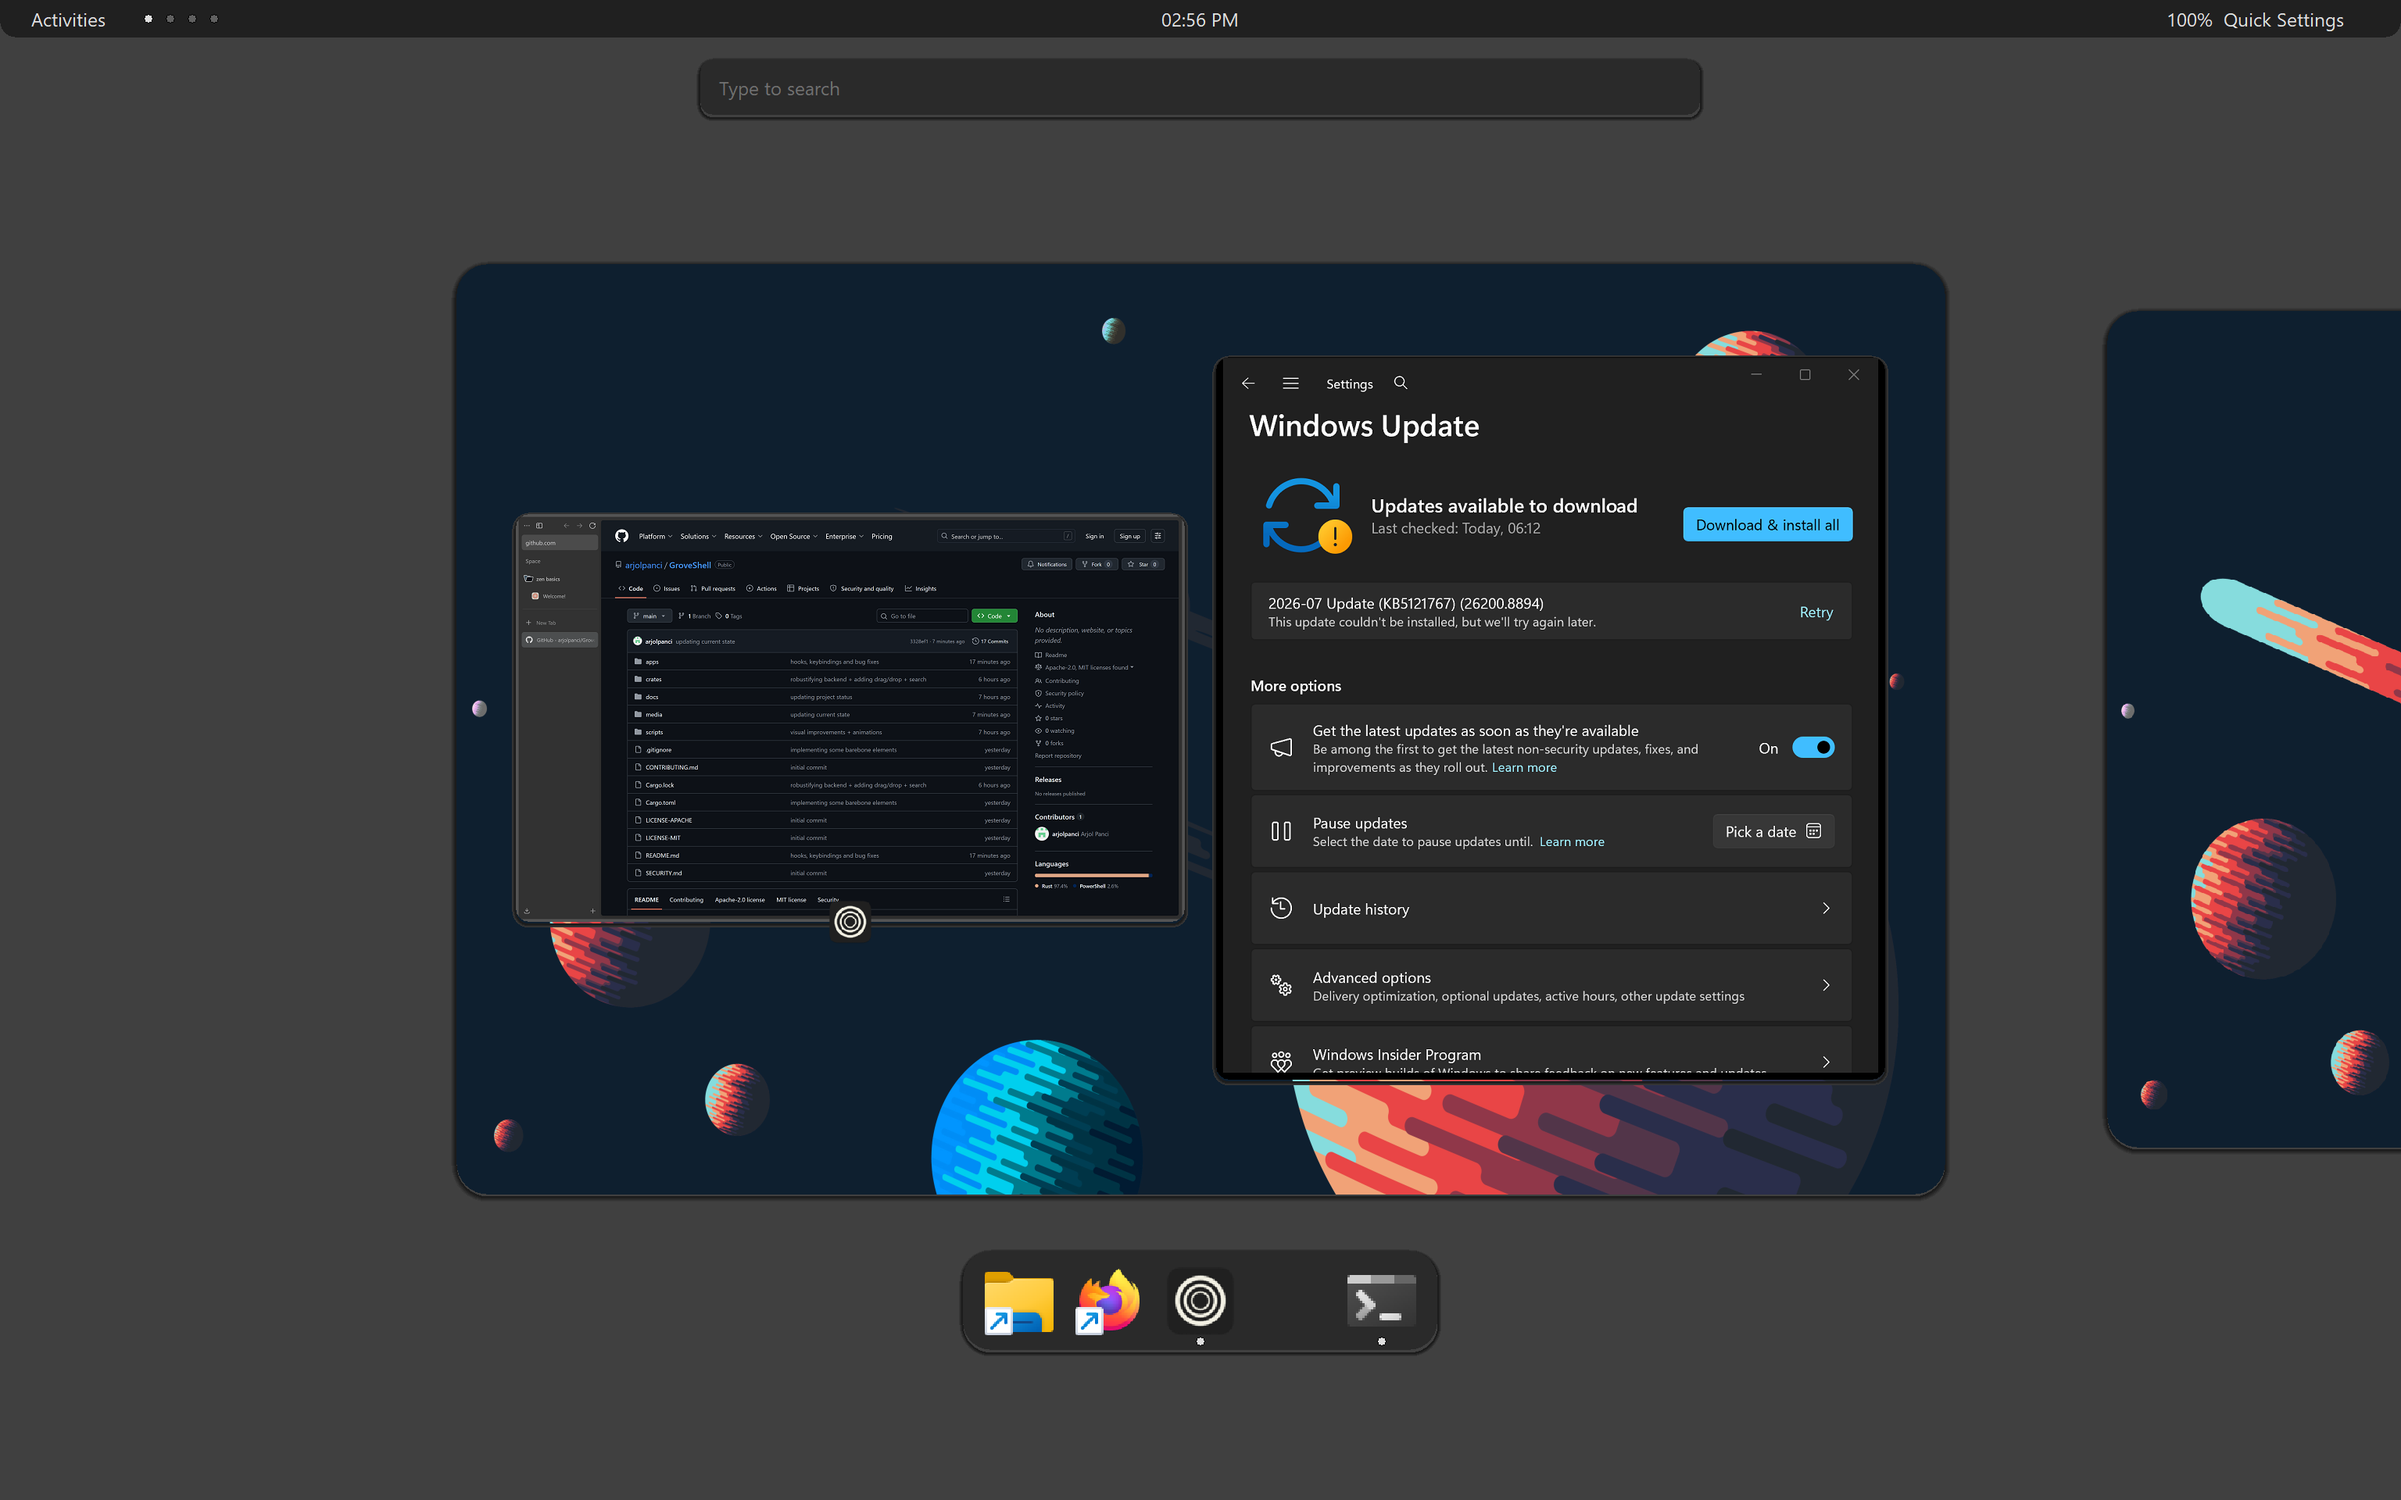
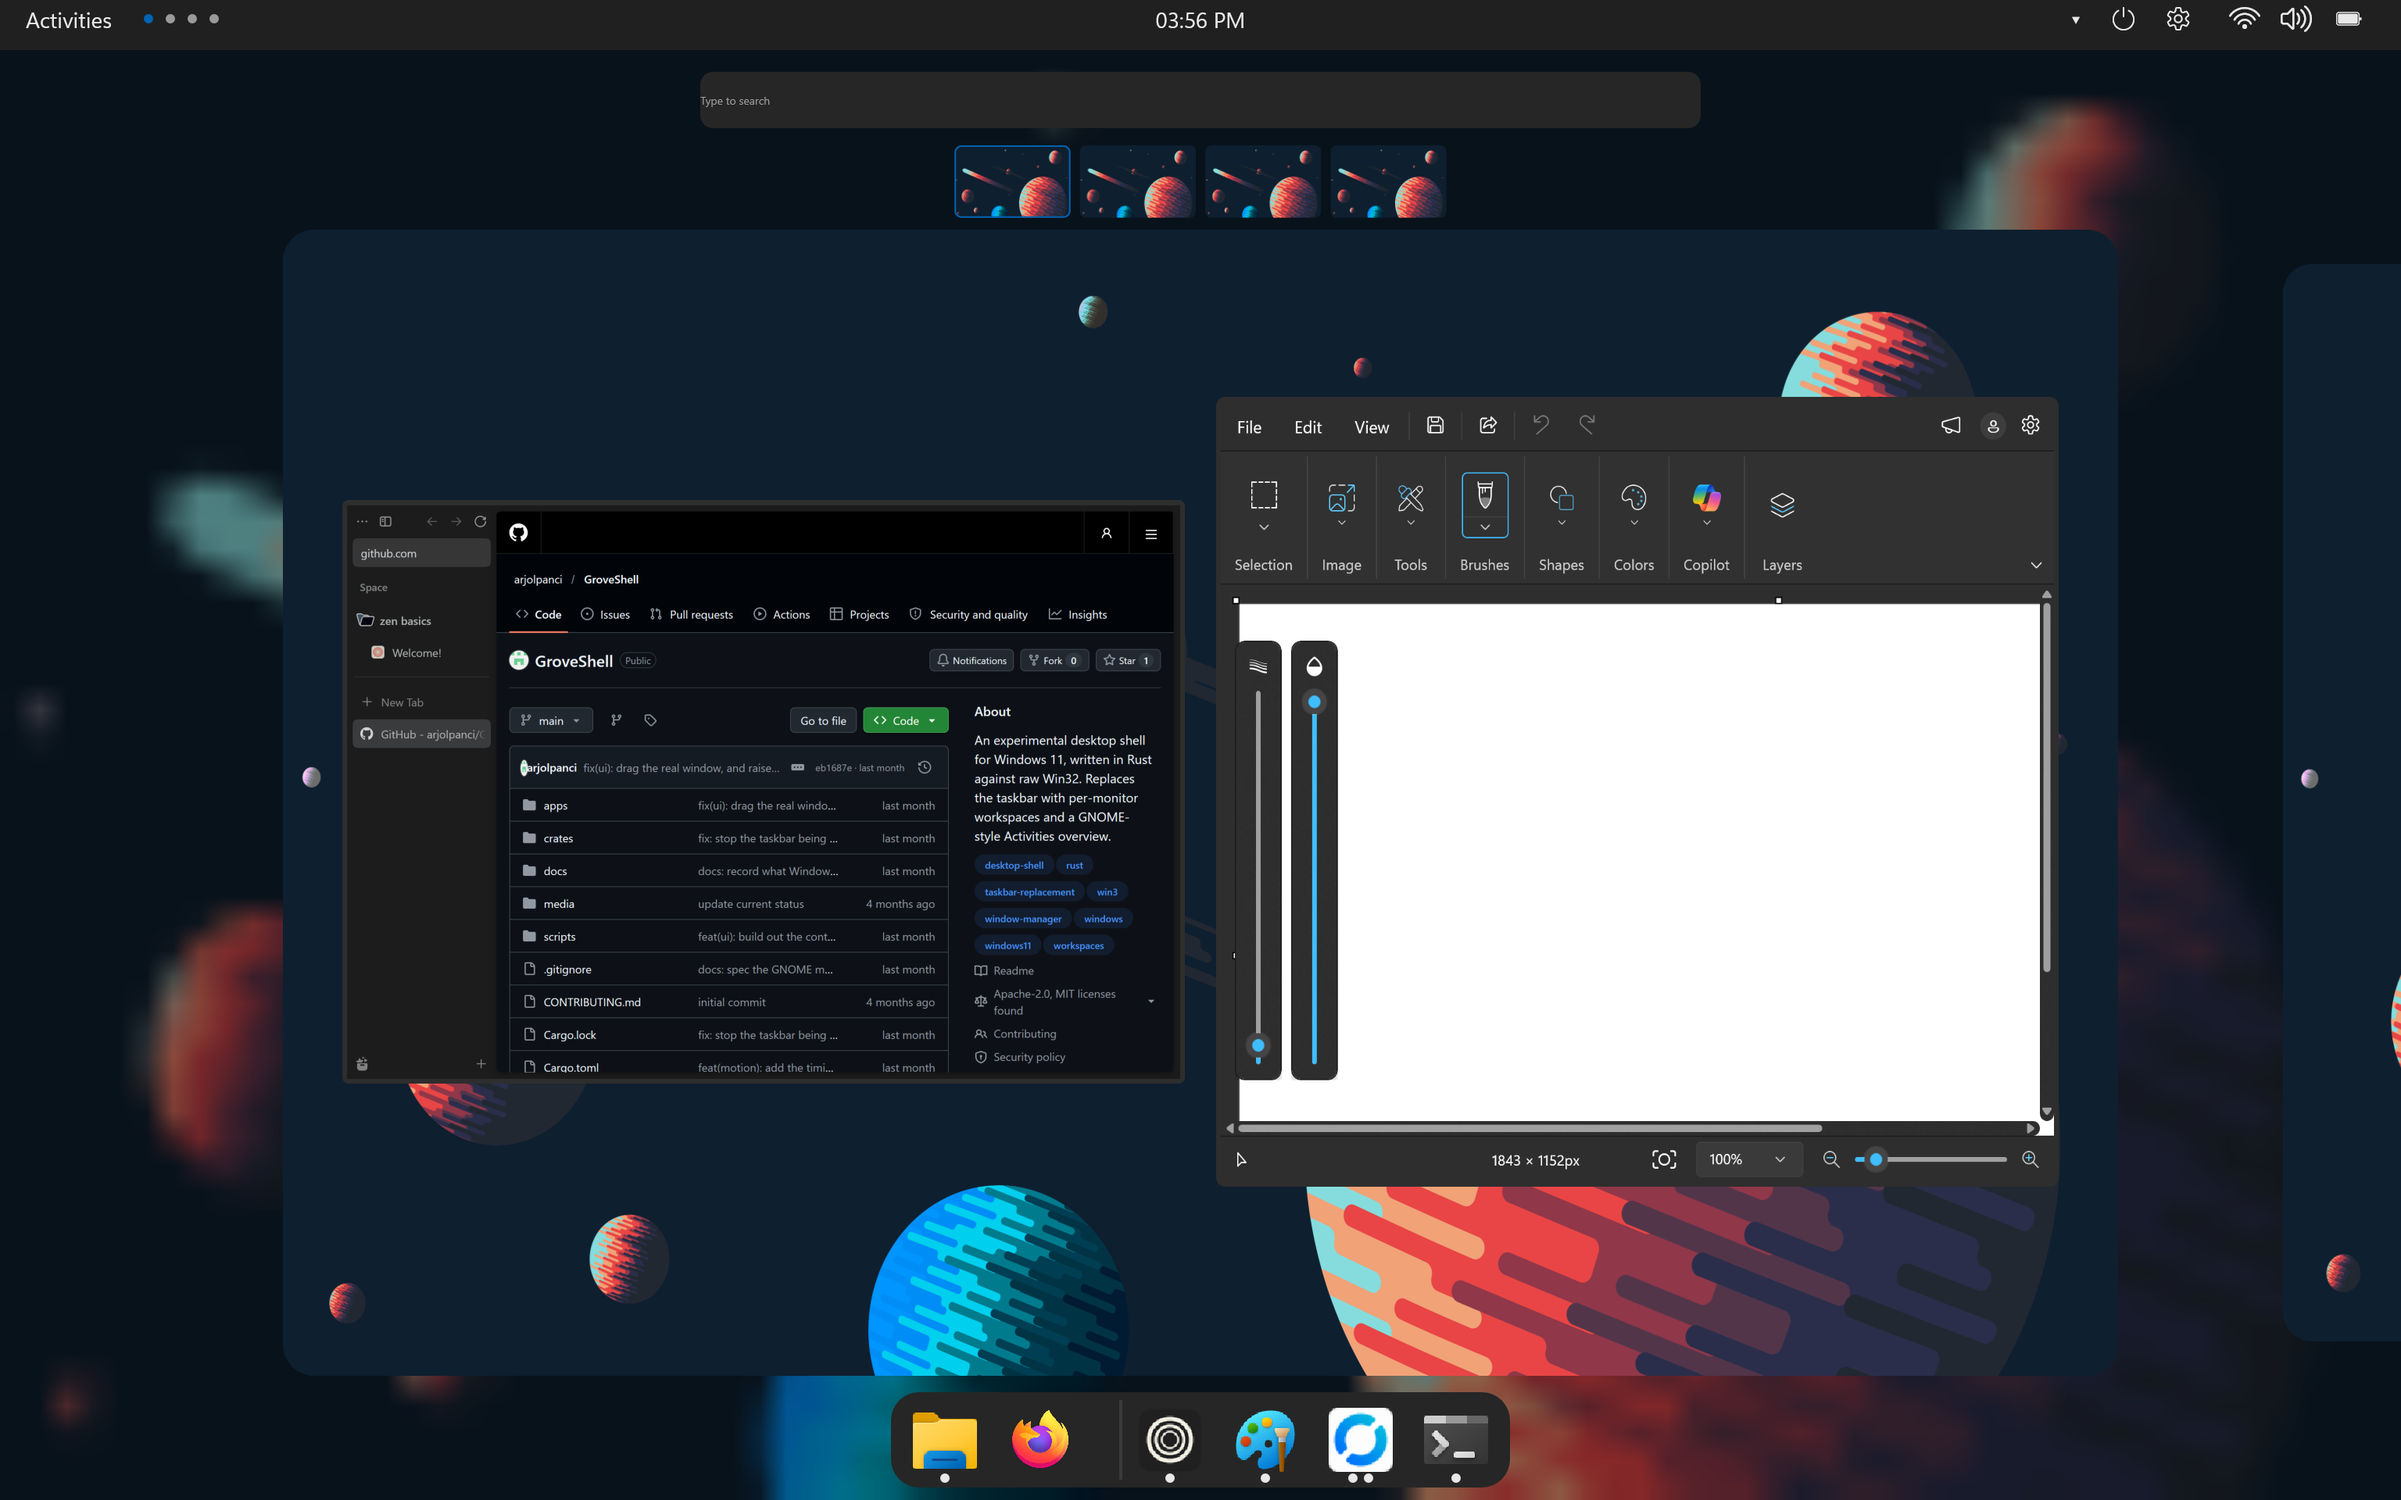
docs: rewrite the README and retake the screenshots
Replace the slogan headings with plain ones, split the top bar section
into control center and notification area, and add a Motion section.
List three-finger swipes as
unsupported and fix the icon licence path, which moved to ui-kit.

Retake the overview and workspace-drag screenshots, and add ones for
the control center and the calendar flyout.

diff --git a/README.md b/README.md
@@ -4,67 +4,104 @@
 
 # GroveShell
 
-A workspace-focused desktop shell for Windows 11. Organize your apps across
-independent workspaces, find anything from Activities, and keep everyday
-controls within reach in a compact top bar.
+GroveShell is an experimental desktop shell for Windows 11. It hides the
+taskbar and puts a top bar, per-monitor workspaces, and a GNOME-style
+Activities overview in its place.
 
-GroveShell is written in Rust using Win32. It runs alongside Explorer and
-restores the Windows taskbar and your windows when you quit. It is experimental
-software; keep the recovery instructions below handy when trying a new build.
+It is written in Rust against Win32 and runs alongside Explorer. Quitting
+it restores the Windows taskbar and your windows. Because it is
+experimental, keep the [recovery instructions](#recovery-and-diagnostics)
+handy when you try a new build.
 
 ![The Activities overview](media/activities-overview.png)
 
-## Your desktop, organized
+## Activities and workspaces
 
-Open **Activities** to see your workspaces, live window previews, app search,
-and a dock with your pinned and running apps. Click a preview to focus it,
-search by typing, or drag a window onto another workspace card.
+Tap the Windows key to open Activities. The overview shows the current
+workspace with a live preview of each window, a strip of workspace
+thumbnails above it, a search field, and a dock with your pinned and
+running apps. Click a preview to focus that window, type to search, or drag
+a preview onto another workspace.
 
-Each monitor has its own workspace set. Switching on one display leaves the
-others alone. An empty workspace is always waiting at the end, and connecting
-or disconnecting a monitor moves windows into a usable workspace automatically.
+![Dragging a window to another workspace](media/workspace-drag.png)
 
-![Dragging between workspaces](media/workspace-drag.png)
+Each monitor has its own set of workspaces, so switching on one display
+leaves the others alone. The last workspace in the set is always empty.
+When you connect or disconnect a monitor, GroveShell moves the affected
+windows into a workspace you can reach.
 
-## A top bar for everyday tasks
+## Motion
 
-Every monitor gets Activities and workspace indicators. The primary display
-also has a clock and calendar, system status, settings, a power menu, and
-access to the Windows notification area.
+Opening and closing Activities is one continuous motion, not a fade on a
+fixed timer. Each window travels from where it sits on screen into its slot
+in the grid, the dock slides up from below, and the thumbnail strip drops in
+from above. You can stop the motion halfway and reverse it.
 
-The **control center** provides Wi-Fi, Bluetooth, appearance, radio controls,
-mute, and a draggable volume slider. Split-button arrows open additional
-options: an in-panel Wi-Fi network list and saved connections, Bluetooth pairing,
-themes, Windows airplane mode, audio devices, and the volume mixer. Network
-selection for saved profiles happens inside GroveShell, with signal strength,
-disconnect, refresh, and scrolling. New-network setup and password entry use
-Windows' own connection UI; GroveShell does not collect or store Wi-Fi passwords.
+A two-finger touchpad scroll or the mouse wheel drives the overview
+transition and the workspace carousel, and a fling lands where its momentum
+carries it. Every animated surface is computed from one progress value per
+monitor, which is why the pieces stay in step. The
+[motion design notes](docs/design/2026-10-13-gnome-motion-port-design.md)
+explain the approach.
 
-The panel uses Segoe UI, rounded surfaces, the Windows accent color, hover
-and keyboard focus feedback, and fade transitions that respect reduced
-motion. Radio operations run in the background so they do not block painting.
-Tab moves between controls, Enter or Space activates them, and arrow keys
-adjust the focused volume slider. Escape goes back from options or dismisses
-the panel.
+## Top bar
 
-Promoted notification icons are captured before Explorer's taskbar is hidden
-and displayed in the primary bar. Left-click invokes
-the app; right-click requests its context menu. The chevron opens Windows'
-hidden icons. Windows 11 stops rendering its XAML tray while hidden, so inline
-images retain their last captured appearance. New icons and badge changes
-require another capture while Explorer's taskbar is visible, or a shell restart.
+Every monitor gets an Activities button and workspace indicators. The
+primary display also has a clock and calendar, system status, settings, a
+power menu, and access to the Windows notification area.
 
-## Make it yours
+![The calendar flyout](media/calendar.png)
 
-Open the gear in the top bar to configure bar height, dock placement and
-behavior, overview appearance, input, and accessibility. Choose an
-overview-only dock, an always-visible dock, or an auto-hiding desktop dock.
-Appearance changes apply while GroveShell is running.
+### Control center
+
+The control center has tiles for Wi-Fi, Bluetooth, appearance, and radios,
+plus mute and a draggable volume slider. The arrow on each split button
+opens more options: a Wi-Fi network list with saved connections, Bluetooth
+pairing, themes, Windows airplane mode, audio devices, and the volume mixer.
+
+![The control center](media/control-center.png)
+
+You pick a saved Wi-Fi network inside GroveShell. The list shows signal
+strength and supports disconnect, refresh, and scrolling. Setting up a new
+network and entering its password go through Windows' own connection UI.
+GroveShell does not collect or store Wi-Fi passwords.
+
+The panel uses Segoe UI, rounded surfaces, and the Windows accent color. It
+shows hover and keyboard focus, and its fade transitions respect reduced
+motion. Radio operations run in the background so they do not block
+painting.
+
+Keyboard control:
+
+- Tab moves between controls.
+- Enter or Space activates the focused control.
+- The arrow keys adjust the volume slider when it has focus.
+- Escape goes back from an options page, or closes the panel.
+
+### Notification area
+
+GroveShell captures the promoted notification icons before it hides
+Explorer's taskbar and shows them in the primary bar. Left-click invokes the
+app, right-click requests its context menu, and the chevron opens Windows'
+hidden icons.
+
+Windows 11 stops rendering its XAML tray while the taskbar is hidden, so the
+inline images keep their last captured appearance. New icons and badge
+changes need another capture while Explorer's taskbar is visible, or a shell
+restart.
+
+## Settings
+
+The gear in the top bar opens settings for bar height, dock placement and
+behavior, overview appearance, input, and accessibility. The dock can appear
+only in the overview, stay visible on the desktop, or auto-hide on the
+desktop. Appearance changes apply while GroveShell is running.
 
 The shell follows the Windows accent color and supports high contrast,
 reduced motion, and per-monitor DPI scaling. Compatibility rules can exclude
-apps from workspace management. See the [compatibility notes](docs/compatibility.md)
-for tested configurations and remaining hardware checks.
+apps from workspace management. The
+[compatibility notes](docs/compatibility.md) list the tested configurations
+and the hardware checks still to do.
 
 ## Keyboard and mouse
 
@@ -80,8 +117,8 @@ for tested configurations and remaining hardware checks.
 
 ## Build and run
 
-Requires **Windows 11 x64** and **Rust stable** with the MSVC toolchain and
-Windows SDK / Visual Studio C++ build tools.
+You need Windows 11 x64 and Rust stable with the MSVC toolchain, plus the
+Windows SDK and the Visual Studio C++ build tools.
 
 ```powershell
 cargo build --workspace
@@ -89,9 +126,10 @@ cargo test --workspace
 .\scripts\dev-start.ps1
 ```
 
-The development launcher builds the workspace and starts the watchdog, host,
-and UI in the background, with a dashboard for status and graceful shutdown.
-Use graceful shutdown to restore the taskbar, work areas, and parked windows.
+`dev-start.ps1` builds the workspace and starts the watchdog, host, and UI
+in the background. It then shows a dashboard with process status and a
+graceful shutdown command. Use graceful shutdown to restore the taskbar,
+work areas, and parked windows.
 
 ## Recovery and diagnostics
 
@@ -101,37 +139,40 @@ If the shell becomes unresponsive, run:
 .\scripts\recover.ps1
 ```
 
-Recovery stops GroveShell processes and ensures Explorer is running without
-depending on a working GroveShell binary. Starting and gracefully quitting
-GroveShell also repairs a taskbar left hidden by a hard kill.
+The script stops GroveShell processes and makes sure Explorer is running. It
+does not depend on a working GroveShell binary. Starting GroveShell, or
+quitting it gracefully, also repairs a taskbar left hidden by a hard kill.
 
-The host and watchdog monitor process health. Structured, rotating logs live
-in `%LOCALAPPDATA%\GroveShell\logs\`. The CLI provides `ping`, `shutdown`,
-`list-windows`, `list-monitors`, and `diagnostics`; diagnostics support
-window-title redaction. Telemetry is off by default.
+The host and watchdog monitor process health. Structured, rotating logs are
+written to `%LOCALAPPDATA%\GroveShell\logs\`. The CLI has `ping`,
+`shutdown`, `list-windows`, `list-monitors`, and `diagnostics` commands, and
+`diagnostics` can redact window titles. Telemetry is off by default.
 
 ## Current limitations
 
 - Workspace assignments do not persist across restarts.
-- The radio tile switches available radios together; it is not Windows'
-  airplane-mode flag. Its options open the actual Windows setting.
+- The radio tile switches the available radios together. It is not Windows'
+  airplane-mode flag; its options page opens the actual Windows setting.
 - Brightness, Night Light, and Do Not Disturb are not integrated controls.
-- Tray images are snapshots; app menu behavior varies across Explorer builds.
-- Wi-Fi enumeration can require Windows location permission. The panel keeps
-  access to Windows' network UI available when enumeration is denied.
-- Full Narrator, mixed-monitor hardware, and long-soak validation remain
-  ongoing. Painted keyboard controls do not yet expose a complete UI
+- Tray images are snapshots, and app menu behavior varies across Explorer
+  builds.
+- Wi-Fi enumeration can require Windows location permission. If it is
+  denied, the panel still gives access to Windows' network UI.
+- Three-finger touchpad swipes are not supported.
+- Testing with Narrator, on mixed-monitor hardware, and over long sessions
+  is not finished. Painted keyboard controls do not yet expose a complete UI
   Automation accessibility tree.
 
 ## Development
 
-See [CONTRIBUTING.md](CONTRIBUTING.md) for contribution guidance,
-[the design document](docs/PROJECT_PLAN.md) for architecture and future work,
-and [architecture decisions](docs/adr/) for the reasoning behind the design.
+[CONTRIBUTING.md](CONTRIBUTING.md) covers how to contribute.
+[The design document](docs/PROJECT_PLAN.md) describes the architecture and
+future work, and the [architecture decisions](docs/adr/) record the
+reasoning behind the design.
 
 GroveShell takes workflow inspiration from GNOME Shell, using no GNOME code,
 assets, or branding. It is not affiliated with or endorsed by the GNOME
 Foundation. Interface icons are from [Lucide](https://lucide.dev), with their
-license included in `apps/ui/resources/icons/NOTICE.md`.
+license included in `crates/ui-kit/resources/icons/NOTICE.md`.
 
 Dual-licensed under [Apache-2.0](LICENSE-APACHE) or [MIT](LICENSE-MIT).
